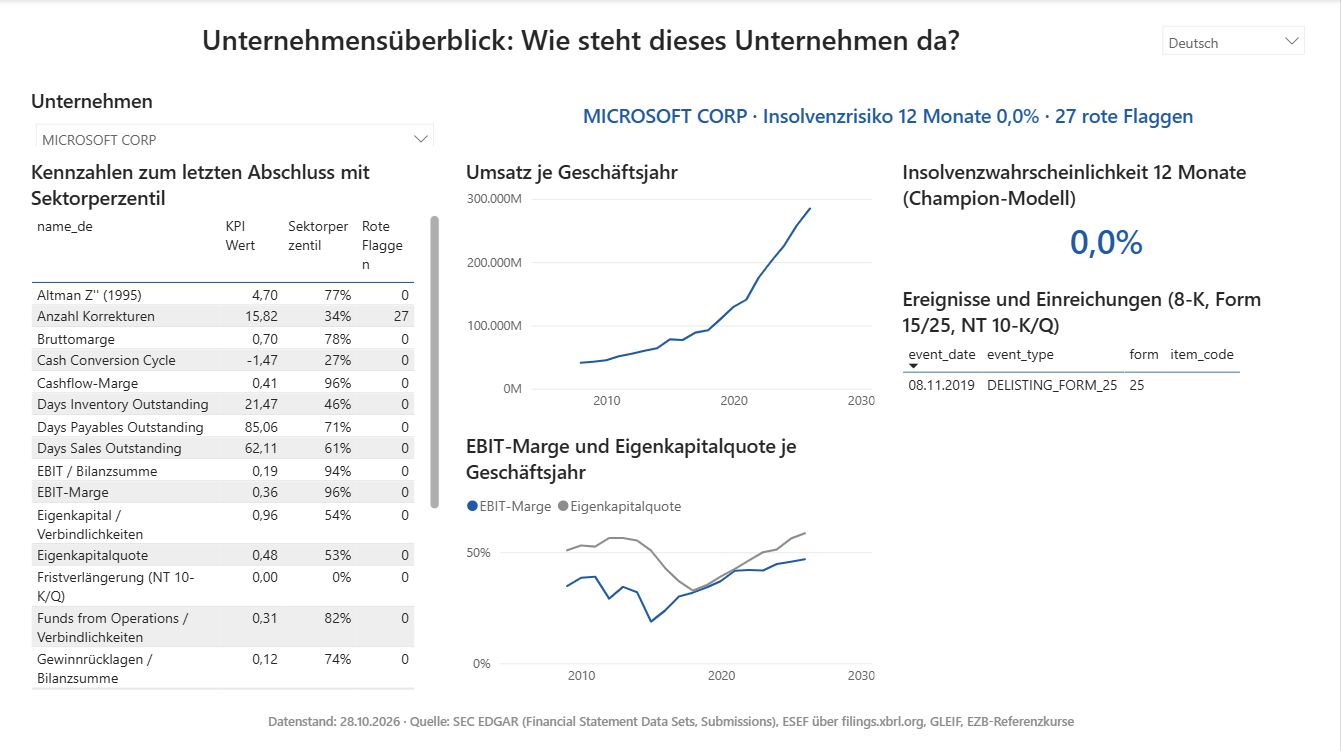
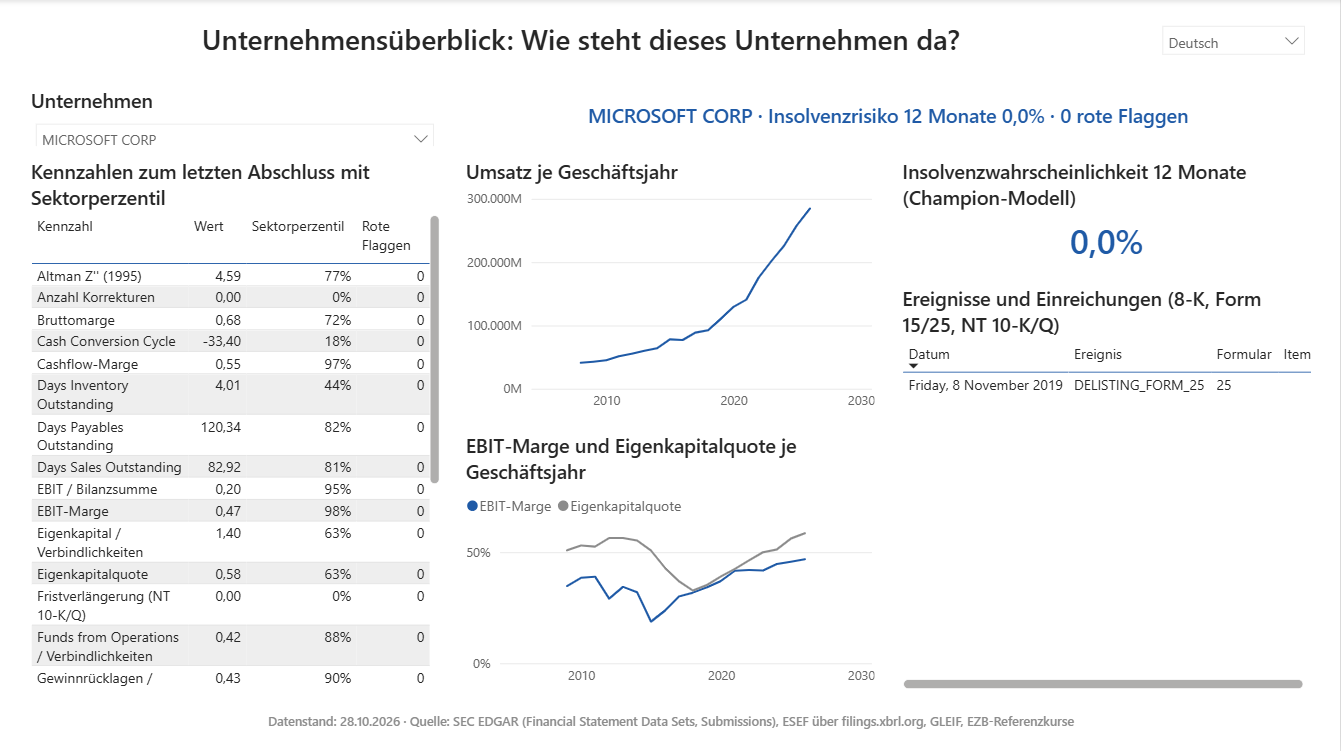
Screenshots after the polish round, page 2 timing
All 11 pages again: display names instead of column names, page 2 at the
latest statement, ranking without blank values, early-warning table and
model names in full, WC sector names and stretch chart without cut-offs.
Page 2 re-timed (its header measure changed): 67 ms median.

diff --git a/docs/performance-local.md b/docs/performance-local.md
@@ -27,7 +27,7 @@ data cache (`.pbi/cache.abf`) 1.5 GB.
 | Page | Visual (main measure) | Total | FE | SE | SE queries |
 |---|---|---:|---:|---:|---:|
 | 1 Antwort | Karte Working-Capital-Potenzial ([Cash-Potenzial aktuell]) | 128 | 117 | 9 | 5 |
-| 2 Unternehmensüberblick | Kopfzeile ([Befund Unternehmen]) | 156 | 142 | 14 | 9 |
+| 2 Unternehmensüberblick | Kopfzeile ([Befund Unternehmen], Flaggen zum letzten Abschluss) | 67 | 56 | 12 | 11 |
 | 3 Bilanzanalyse | Passiva nach Gruppe ([Bestand]) | 141 | 126 | 15 | 2 |
 | 4 GuV und Margen | Brücke Umsatz bis EBIT ([GuV-Brücke Betrag]) | 429 | 124 | 324 | 7 |
 | 5 Cashflow und Working Capital | CCC gegen Sektormedian ([CCC], [CCC Sektor-Median]) | 912 | 892 | 20 | 7 |
@@ -59,17 +59,17 @@ between −730 and 730 days, at least five of them): page 5 went from 217 to 912
 
 ## All runs
 
-The final model (main with PR #8 and report-fixes-2); pages 5, 7 and 8 measured after report-fixes-2,
-the others before it (their queries do not use the changed measures).
+The final model (main with PR #8 and report-fixes-2); pages 2, 5, 7 and 8 measured after the last
+measure changes, the others before them (their queries do not use the changed measures).
 
 | Page | Run | Total | FE | SE | SE queries | Rows |
 |---|---:|---:|---:|---:|---:|---:|
 | 1 | 1 | 128 | 117 | 11 | 5 | 1 |
 | 1 | 2 | 132 | 127 | 5 | 5 | 1 |
 | 1 | 3 | 123 | 114 | 9 | 5 | 1 |
-| 2 | 1 | 158 | 142 | 16 | 9 | 1 |
-| 2 | 2 | 156 | 142 | 14 | 9 | 1 |
-| 2 | 3 | 137 | 125 | 12 | 9 | 1 |
+| 2 | 1 | 67 | 57 | 10 | 11 | 1 |
+| 2 | 2 | 67 | 55 | 12 | 11 | 1 |
+| 2 | 3 | 68 | 56 | 12 | 11 | 1 |
 | 3 | 1 | 141 | 126 | 15 | 2 | 60 |
 | 3 | 2 | 131 | 121 | 10 | 2 | 60 |
 | 3 | 3 | 149 | 133 | 16 | 2 | 60 |
